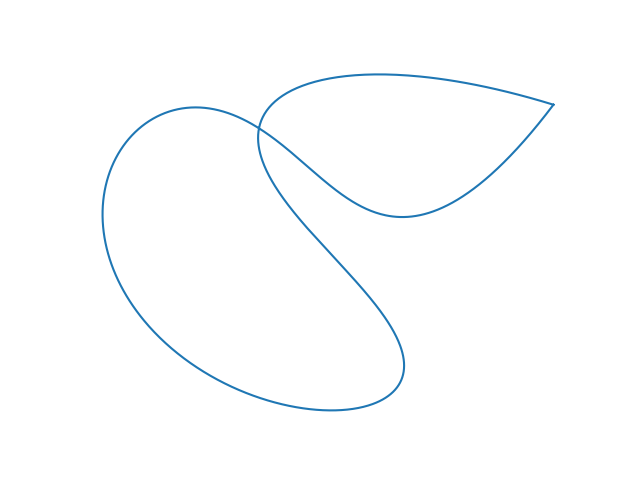
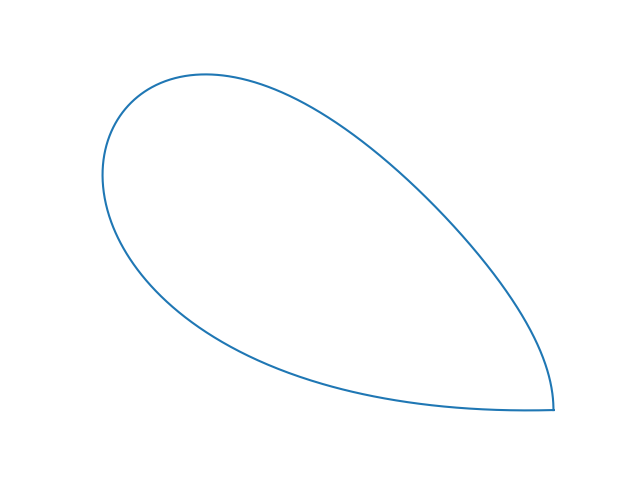
Ejecucion

diff --git a/PC2 - Anchi Dueñas/av.py b/PC2 - Anchi Dueñas/av.py
@@ -218,9 +218,9 @@ if __name__ == "__main__":
     xvals, yvals = bezier_curve(
         [*puntos_ordenados, puntos_ordenados[0]], nTimes=1000)
     plt.plot(xvals, yvals)
-    plt.plot(xpoints, ypoints, "ro") # puntos de control
+    # plt.plot(xpoints, ypoints, "ro") # puntos de control
     plt.axis('off') # quitar ejes
-    for nr in range(len(points)):
-        plt.text(points[nr][0], points[nr][1], nr)  # type: ignore
+    # for nr in range(len(points)):
+    #     plt.text(points[nr][0], points[nr][1], nr)  # type: ignore
     plt.savefig('bezier_curve.png')
     plt.show()

diff --git a/Sesion 6/Martes/posiciones.py b/Sesion 6/Martes/posiciones.py
@@ -1,6 +1,6 @@
 import cv2
 import numpy as np
-image = cv2.imread('esferas.jpg')
+image = cv2.imread('esferas2.jpg')
 gray = cv2.cvtColor(image,cv2.COLOR_BGR2GRAY)
 canny = cv2.Canny(gray,50,165)
 color_blanco = np.array([255,255,255])
